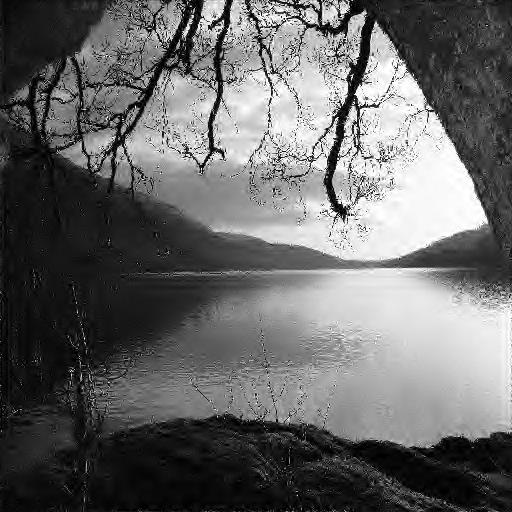
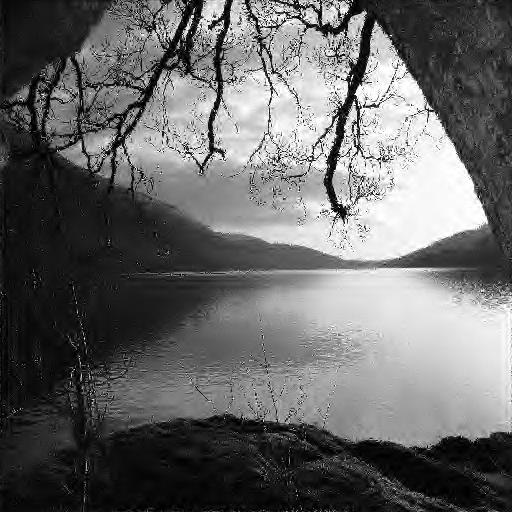
mse and iters

diff --git a/iht/iht.py b/iht/iht.py
@@ -62,7 +62,7 @@ def main(args):
 
     # initialize and run IHT
     x_init = np.random.rand(*corrupted_img.shape) * 255
-    xhat = iht(y=corrupted_img, x_init=x_init, sparsity=args.sparsity, mask=mask_resize, level=4, wavelet='db4')
+    xhat = iht(y=corrupted_img, x_init=x_init, sparsity=args.sparsity, mask=mask_resize, level=4, wavelet='db4', iters=args.iters)
 
     # save reconstructed image, original processed image, corrupted image
     if not os.path.exists(args.out_dir):
@@ -72,6 +72,9 @@ def main(args):
     recon_img_path = os.path.join(args.out_dir, img_name + "_recon.jpg")
     orig_process_img_path = os.path.join(args.out_dir, img_name + ".jpg")
     corrupted_img_path = os.path.join(args.out_dir, img_name + "_corrupted.jpg")
+
+    mse = calc_mse(normalize01(img_resize), normalize01(xhat))
+    print(f"MEAN SQUARED ERROR: {mse}")
 
     save_nparray2image(xhat, recon_img_path)
     save_nparray2image(corrupted_img, corrupted_img_path)
@@ -88,6 +91,7 @@ def parse_arg():
     parser.add_argument('--resolution', type=int, default=512, help="resolution of images to be resized to")
     parser.add_argument('--sparsity', type=float, default=0.1, help='percentage of how sparse the signal in wavelet domain will be for IHT')
     parser.add_argument('--out_dir', type=str, default='output', help="output directory path to save reconstructed image. Directory will be created if it doesn't exist")
+    parser.add_argument('--iters', type=int, default=1000, help="number of iterations to run algorithm")
     return parser.parse_args()
 
 if __name__ == '__main__':

diff --git a/iht/utils.py b/iht/utils.py
@@ -10,3 +10,15 @@ def imagepath2numpy(im_pth):
 def save_nparray2image(arr, fpath):
     im = Image.fromarray(arr).convert("L")  # grayscale
     im.save(fpath)
+
+
+def calc_mse(arr1, arr2):
+    assert(arr1.shape == arr2.shape)
+    sub = arr1 - arr2
+    squared = np.square(sub)
+    mse = np.sum(squared) / squared.size
+
+    return mse
+
+def normalize01(arr):
+    return (arr - np.min(arr)) / np.ptp(arr)
